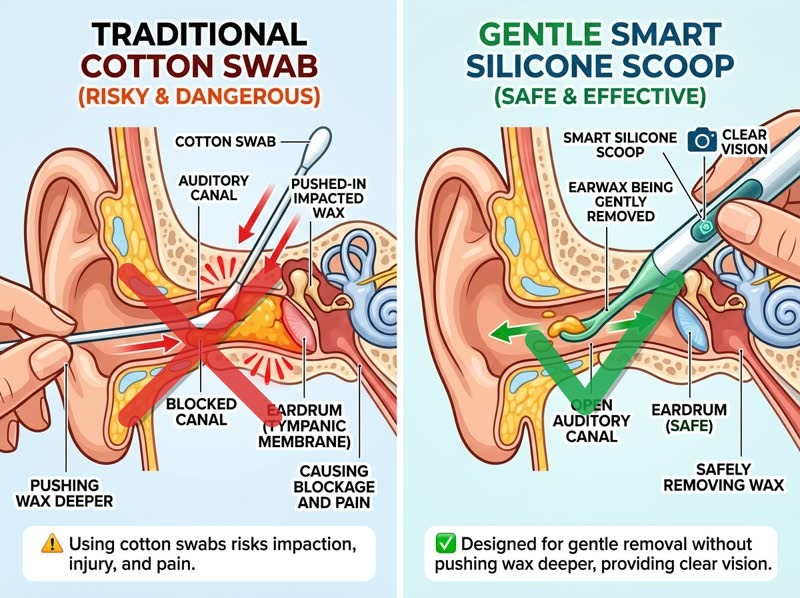
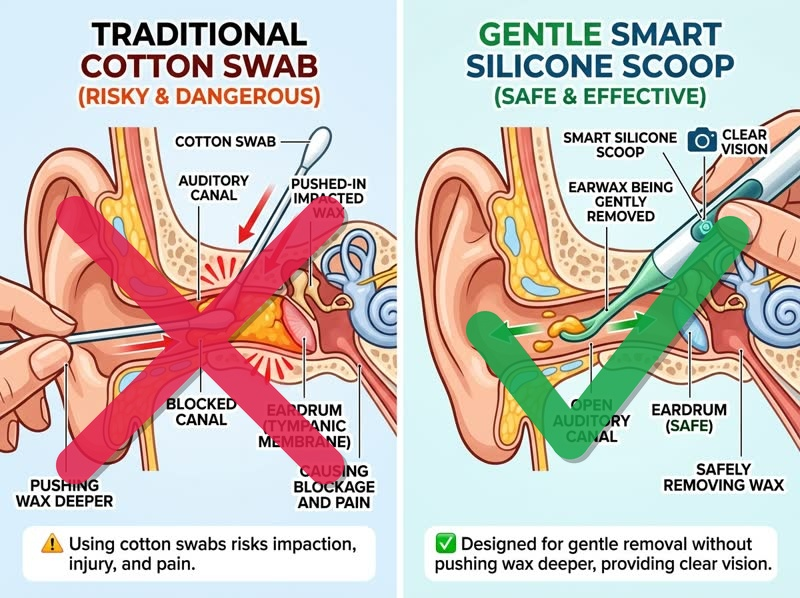
Enlarge comparison marks and bust image cache in sales page

Changed region(s): [[0.0625, 0.3311, 0.4375, 0.8127], [0.5625, 0.3612, 0.9375, 0.7826]]

diff --git a/ear-cleaner/index.html b/ear-cleaner/index.html
@@ -163,7 +163,7 @@
         <p class="section-subtitle">Why ENT doctors constantly warn people to never stick cotton buds into their ear canal.</p>
 
         <div class="media-card">
-          <img src="../assets/images/cotton-bud-danger.jpg" alt="Medical comparison between cotton swab and safe silicone scoop" width="760" height="570" loading="lazy" decoding="async">
+          <img src="../assets/images/cotton-bud-danger-marked.jpg?v=2" alt="Medical comparison: Risky Cotton Swabs vs Gentle Smart Visual Ear Cleaner" width="760" height="570" loading="lazy" decoding="async">
         </div>
 
         <div class="danger-box">
